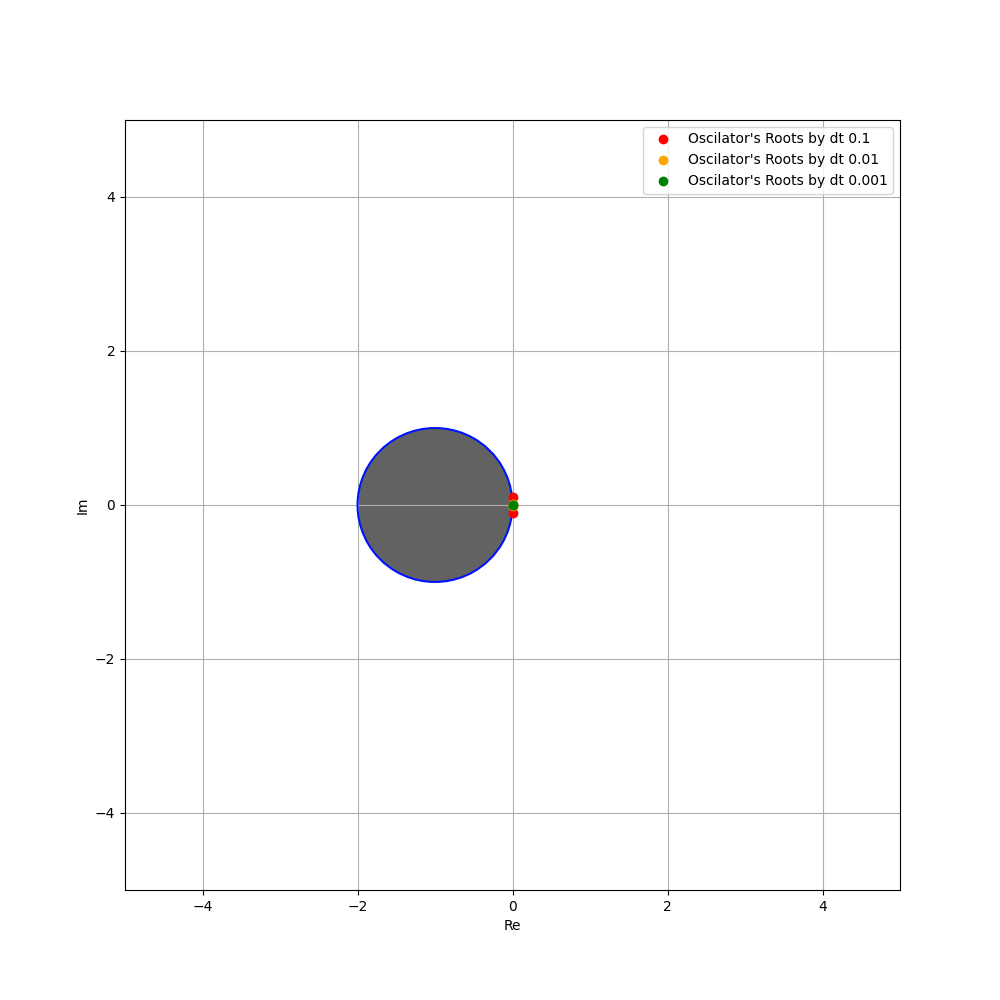
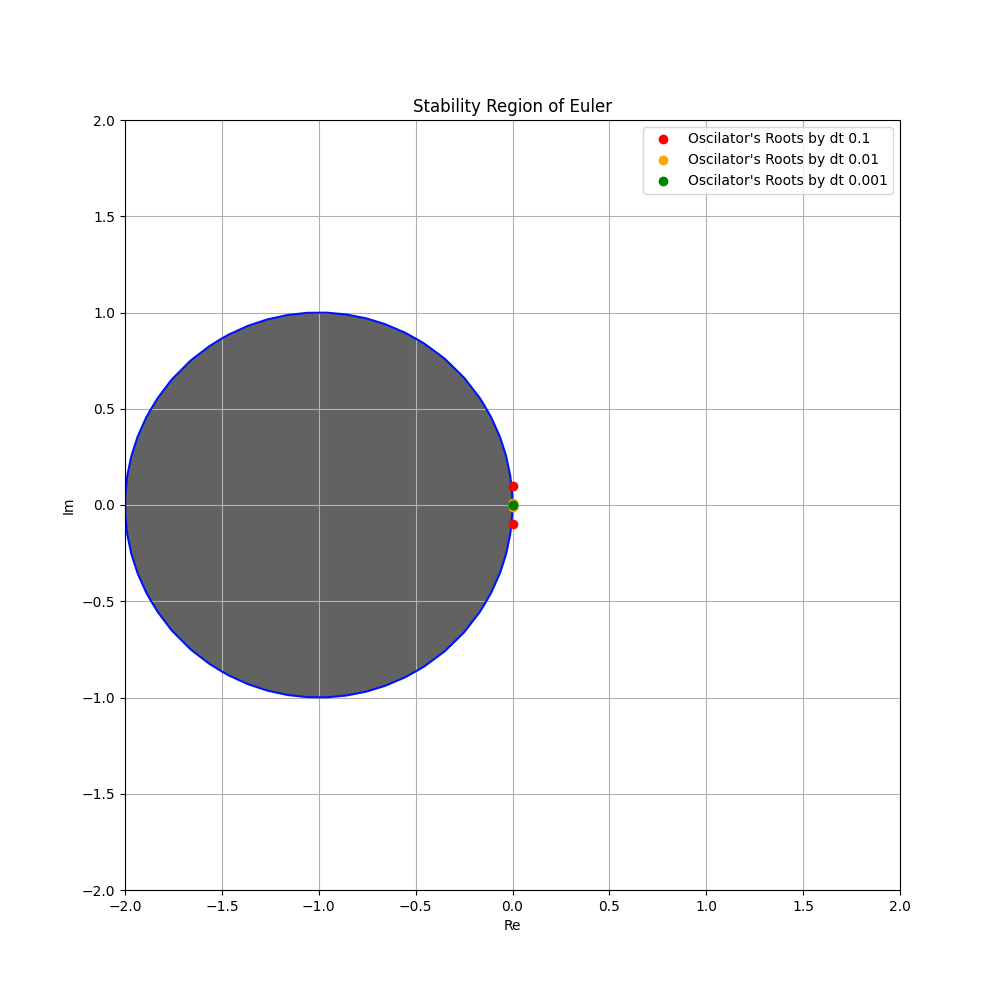
Update Milestone 4

diff --git a/sources/Graf/Plots.py b/sources/Graf/Plots.py
@@ -9,6 +9,7 @@ def Plot_CP(U, t, T, dt, T_S, Save):
     ax.set_ylabel('x')
     ax.set_title(T_S)
     ax.legend()
+    ax.grid()
     
     file = T_S + "_dt_" + str(dt) +".png"
     Save_plot(Save, file)
@@ -22,6 +23,7 @@ def Plot_CP_all(U, t, T, dt, T_S, Save):
     ax.set_ylabel('x')
     ax.set_title(T_S + ' compare dt for T = ' + str(T))
     ax.legend()
+    ax.grid()
     
     file = T_S + ".png"
     Save_plot(Save, file)
@@ -72,7 +74,7 @@ def Plot_Conv_Rat(x, y, T, dt, regress, T_S, Save):
     file = T_S +'_dt_'+ str(dt) +'_conver' + ".png"
     Save_plot(Save, file)
 
-def Plot_SR(w, dt, T_S, Save):
+def Plot_SR(r, dt, T_S, Save):
     ax = plt.figure(figsize = (10, 10))
     if T_S == 'LeapFrog':
         Im = linspace(-1,1,100)
@@ -81,11 +83,11 @@ def Plot_SR(w, dt, T_S, Save):
         ax = plt.plot(Re, Im, color = '#0013ff')
         
     else:
-        N = len(w)
+        N = len(r)
         x = linspace(-5,5,N)
         y = linspace(-5,5,N)
-        ax = plt.contour(x,y, w, levels = [0, 1], colors = ['#0013ff'])
-        ax = plt.contourf(x,y, w, levels = [0, 1], colors =['#626262'])
+        ax = plt.contour(x,y, r, levels = [0, 1], colors = ['#0013ff'])
+        ax = plt.contourf(x,y, r, levels = [0, 1], colors =['#626262'])
     
     colors = ['r','orange','g']
     
@@ -93,6 +95,9 @@ def Plot_SR(w, dt, T_S, Save):
         plt.plot([0,0], [dt[i],-dt[i]], 'o', color = colors[i], label = "Oscilator's Roots by dt " + str(dt[i]))
     plt.ylabel("Im")
     plt.xlabel("Re")
+    plt.title('Stability Region of ' + T_S )
+    # plt.xlim([-2, 2])
+    # plt.ylim([-2, 2])
     plt.legend()
     plt.grid()
     

diff --git a/sources/Milestone_4.py b/sources/Milestone_4.py
@@ -9,7 +9,7 @@ import Graf.Plots as plt
 r0 = [1]
 v0 = [0]
 U0 = r0 + v0
-T = 100
+T = 30
 dt = [0.1, 0.01, 0.001]
 
 #Save Plots
@@ -32,14 +32,14 @@ for i in range(len(dt)):
 
 
 # # #Simulations
-for j in range ( len(T_S_plot) ):
-        for x in t_dic: # x is a str and U is creating new keys
-                U_dic[x]= C_P(Linear_Oscilator, t_dic[x], U0, T_S[j])
-                plt.Plot_CP(U_dic[x], t_dic[x], T, dt[int(x)], T_S_plot[j], Save) # x return the value of the key
-        plt.Plot_CP_all(U_dic,t_dic,T, dt, T_S_plot[j], Save)
-        print(T_S_plot[j] + " calculado \n")
+# for j in range ( len(T_S_plot) ):
+#         for x in t_dic: # x is a str and U is creating new keys
+#                 U_dic[x]= C_P(Linear_Oscilator, t_dic[x], U0, T_S[j])
+#                 plt.Plot_CP(U_dic[x], t_dic[x], T, dt[int(x)], T_S_plot[j], Save) # x return the value of the key
+#         plt.Plot_CP_all(U_dic,t_dic,T, dt, T_S_plot[j], Save)
+#         print(T_S_plot[j] + " calculado \n")
 
-#Stability Region
+# #Stability Region
 
 for i in range( len(T_S_plot) ):
         S_R[i] = Stability_Region(T_S_plot[i])
